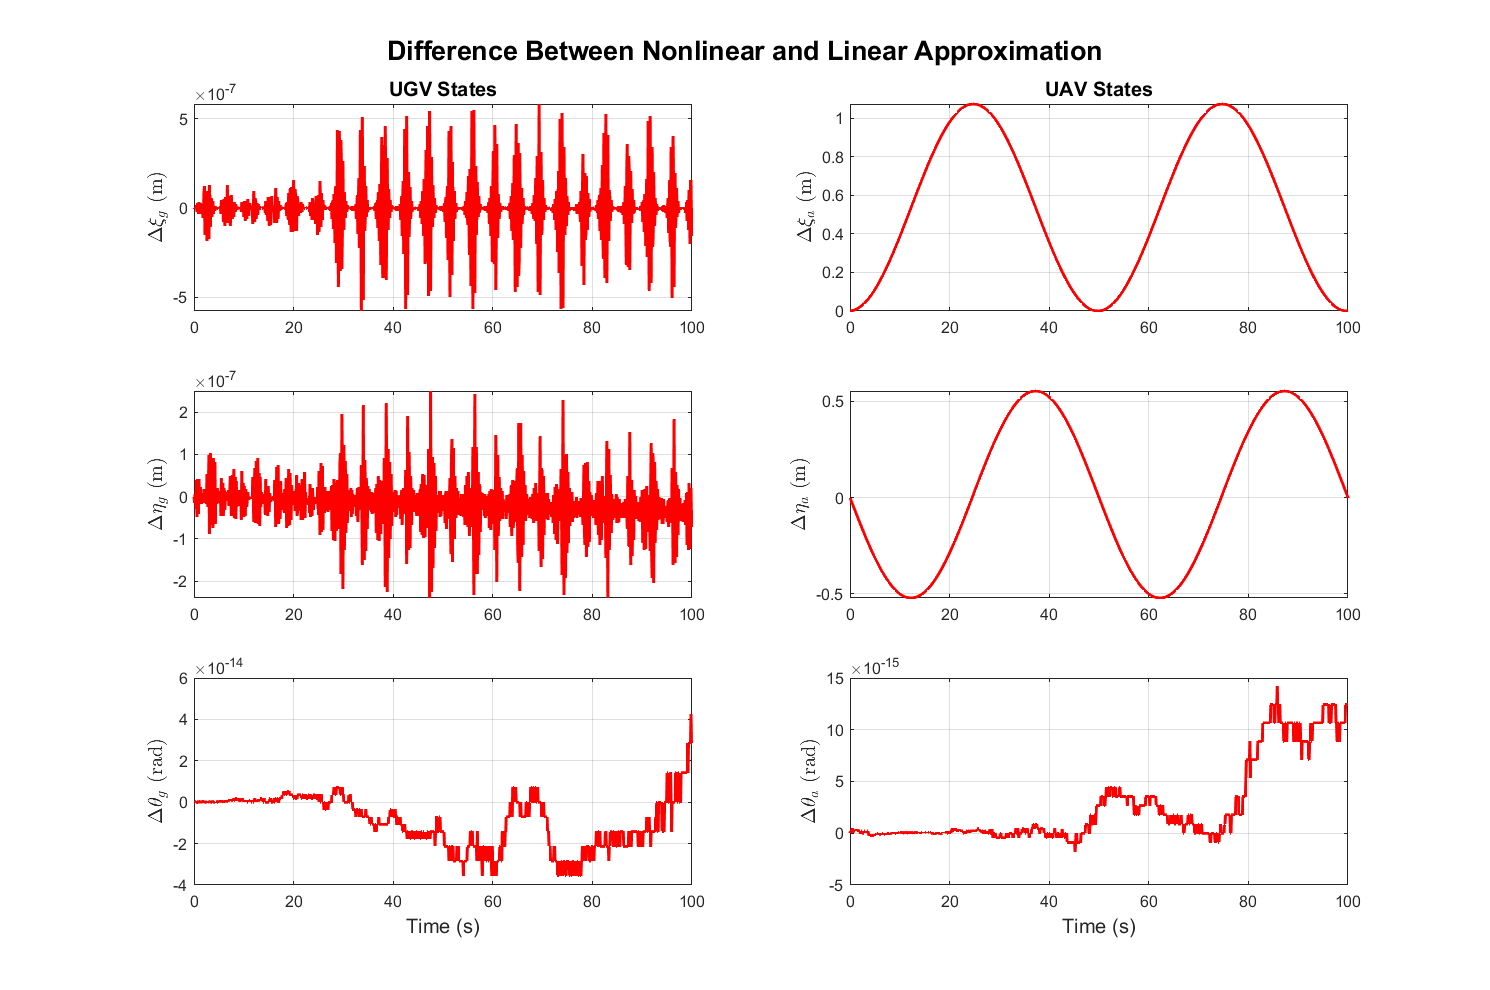
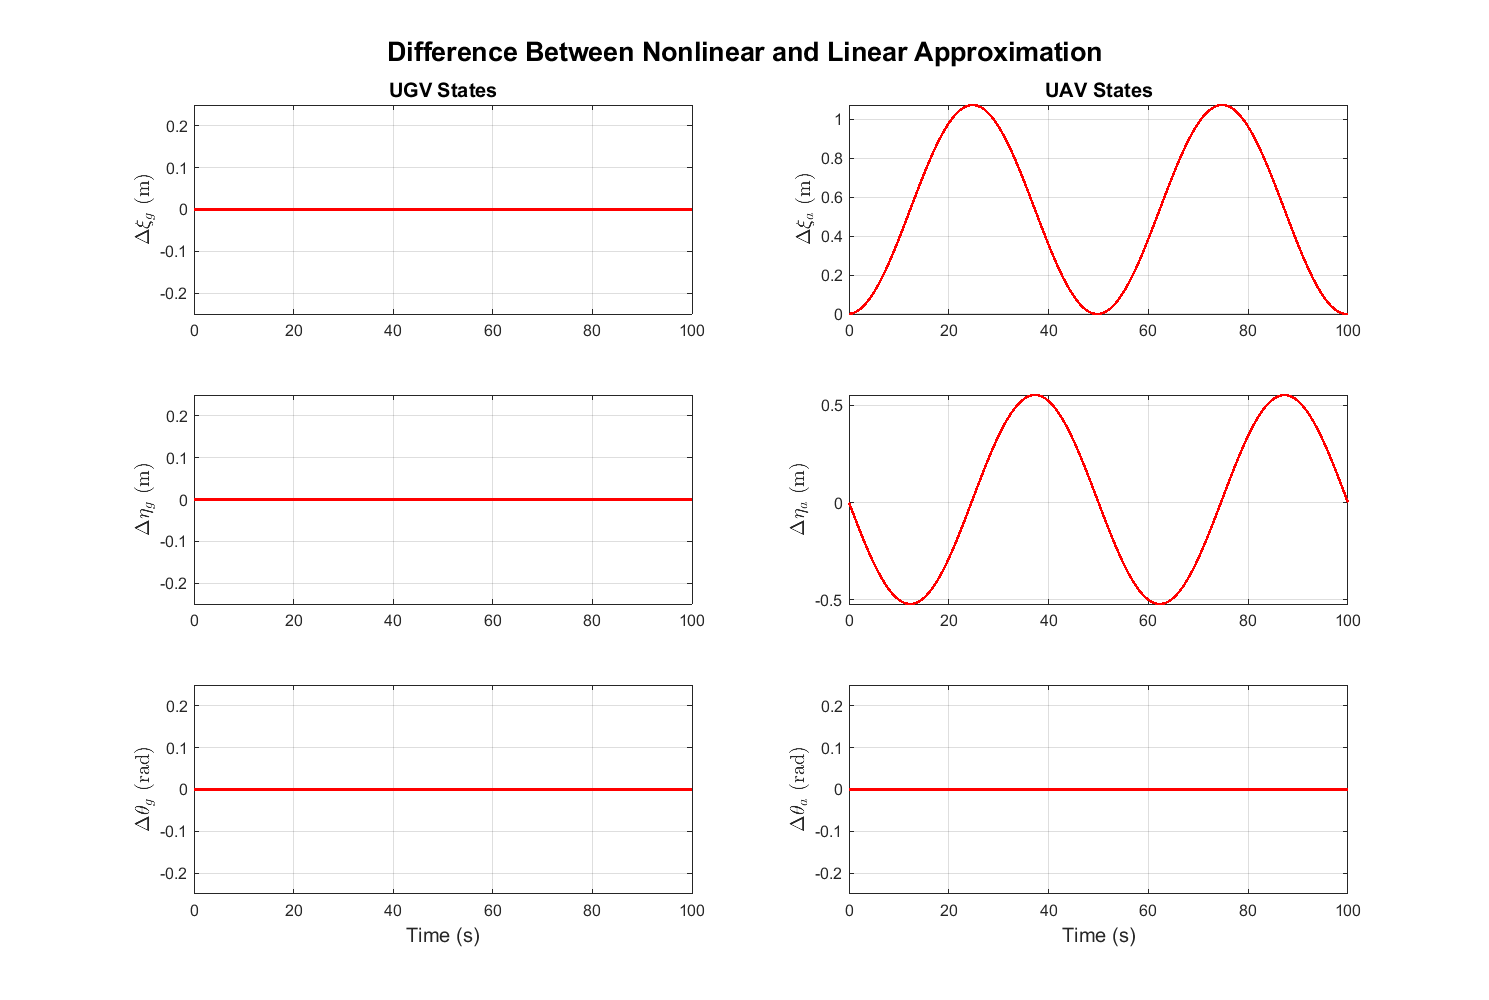
EKF Update

diff --git a/main_part1.m b/main_part1.m
@@ -75,6 +75,7 @@ uav_line = {'LineWidth', line_width, 'Color', 'r', 'LineStyle', linespec};
 subplot(3,2,1);
 plot(TOUT_DT, xdiff(:,1), ugv_line{:});
 ylabel('$\Delta\xi_{g}$ (m)', 'Interpreter', 'latex', 'FontSize', 12);
+ylim([-0.25 0.25])
 title('UGV States', 'FontSize', 12);
 grid on;
 
@@ -88,6 +89,7 @@ grid on;
 % UGV North Position
 subplot(3,2,3);
 plot(TOUT_DT, xdiff(:,2), ugv_line{:});
+ylim([-0.25 0.25])
 ylabel('$\Delta\eta_{g}$ (m)', 'Interpreter', 'latex', 'FontSize', 12);
 grid on;
 
@@ -100,6 +102,7 @@ grid on;
 % UGV Heading Angle
 subplot(3,2,5);
 plot(TOUT_DT, xdiff(:,3), ugv_line{:});
+ylim([-0.25 0.25])
 ylabel('$\Delta\theta_{g}$ (rad)', 'Interpreter', 'latex', 'FontSize', 12);
 xlabel('Time (s)', 'FontSize', 12);
 grid on;
@@ -107,6 +110,7 @@ grid on;
 % UAV Heading Angle
 subplot(3,2,6);
 plot(TOUT_DT, xdiff(:,6), uav_line{:});
+ylim([-0.25 0.25])
 ylabel('$\Delta\theta_{a}$ (rad)', 'Interpreter', 'latex', 'FontSize', 12);
 xlabel('Time (s)', 'FontSize', 12);
 grid on;

diff --git a/main_EKF.m b/main_EKF.m
@@ -73,7 +73,7 @@ for i = 1:length(y_noise_mat(:,1))
     y_meas = y_noise_mat(i,:)';
 
     % Kalman update
-    [xhat_curr, P_curr] = EKF(xhat_curr, P_curr, u_nom, y_meas, dt, Q_ekf, R);
+    [xhat_curr, P_curr, ~, ~] = EKF(xhat_curr, P_curr, u_nom, y_meas, dt, Q_ekf, R);
 
     % Store the result in a matrix of the estimated state;
     xhat_mat(i+1, :) = xhat_curr';
@@ -83,7 +83,7 @@ end
 
 % Plot the results
 % figure();
-plotSim(time_tmt, x_noise_mat, y_noise_mat, '-');
+%plotSim(time_tmt, x_noise_mat, y_noise_mat, '-');
 %plotSim(time_tmt, xhat_mat, y_noise_mat, '--');
 
 
@@ -130,6 +130,8 @@ end
 % Add a global title
 sgtitle('State Estimator Errors with $\pm 2 \sigma$  Bounds', 'Interpreter', 'latex', 'FontSize', 14);
 
+% Global adjustments
+set(gcf, 'Position', [100, 100, 1200, 800]); % Adjust figure size
 
 
 

diff --git a/EKF.m b/EKF.m
@@ -1,4 +1,4 @@
-function [xhat_meas, P_meas] = EKF(xhat_prev, P_prev, u, y, dt, Q, R)
+function [xhat_meas, P_meas, innovation, S] = EKF(xhat_prev, P_prev, u, y, dt, Q, R)
 %EKF This performs a single EKF update with prediction and measurement
 %update steps
 %
@@ -47,7 +47,8 @@ innovation(1) = mod(innovation(1) + pi, 2*pi) - pi;
 innovation(3) = mod(innovation(3) + pi, 2*pi) - pi;
 
 % Kalman gain
-K = P_pred * H' * inv(H * P_pred * H' + R);
+S = H * P_pred * H' + R;
+K = P_pred * H' * inv(S);
 
 % Update state and covariance
 xhat_meas = xhat_pred + K*innovation;

diff --git a/simulateNoise.m b/simulateNoise.m
@@ -16,7 +16,7 @@ function [time,x_noise_mat,y_noise_mat] = simulateNoise(x0,u0,Q,R,dt,n_ind)
     % Author: Owen Craig
     % Modified: 12/3/2024
     % Define Constant RNG Seed and ODE45 Tol
-    rng(100);
+    %rng(100);
     options = odeset('RelTol', 1e-8, 'AbsTol', 1e-10);
     
     % Simulate Process Noise
